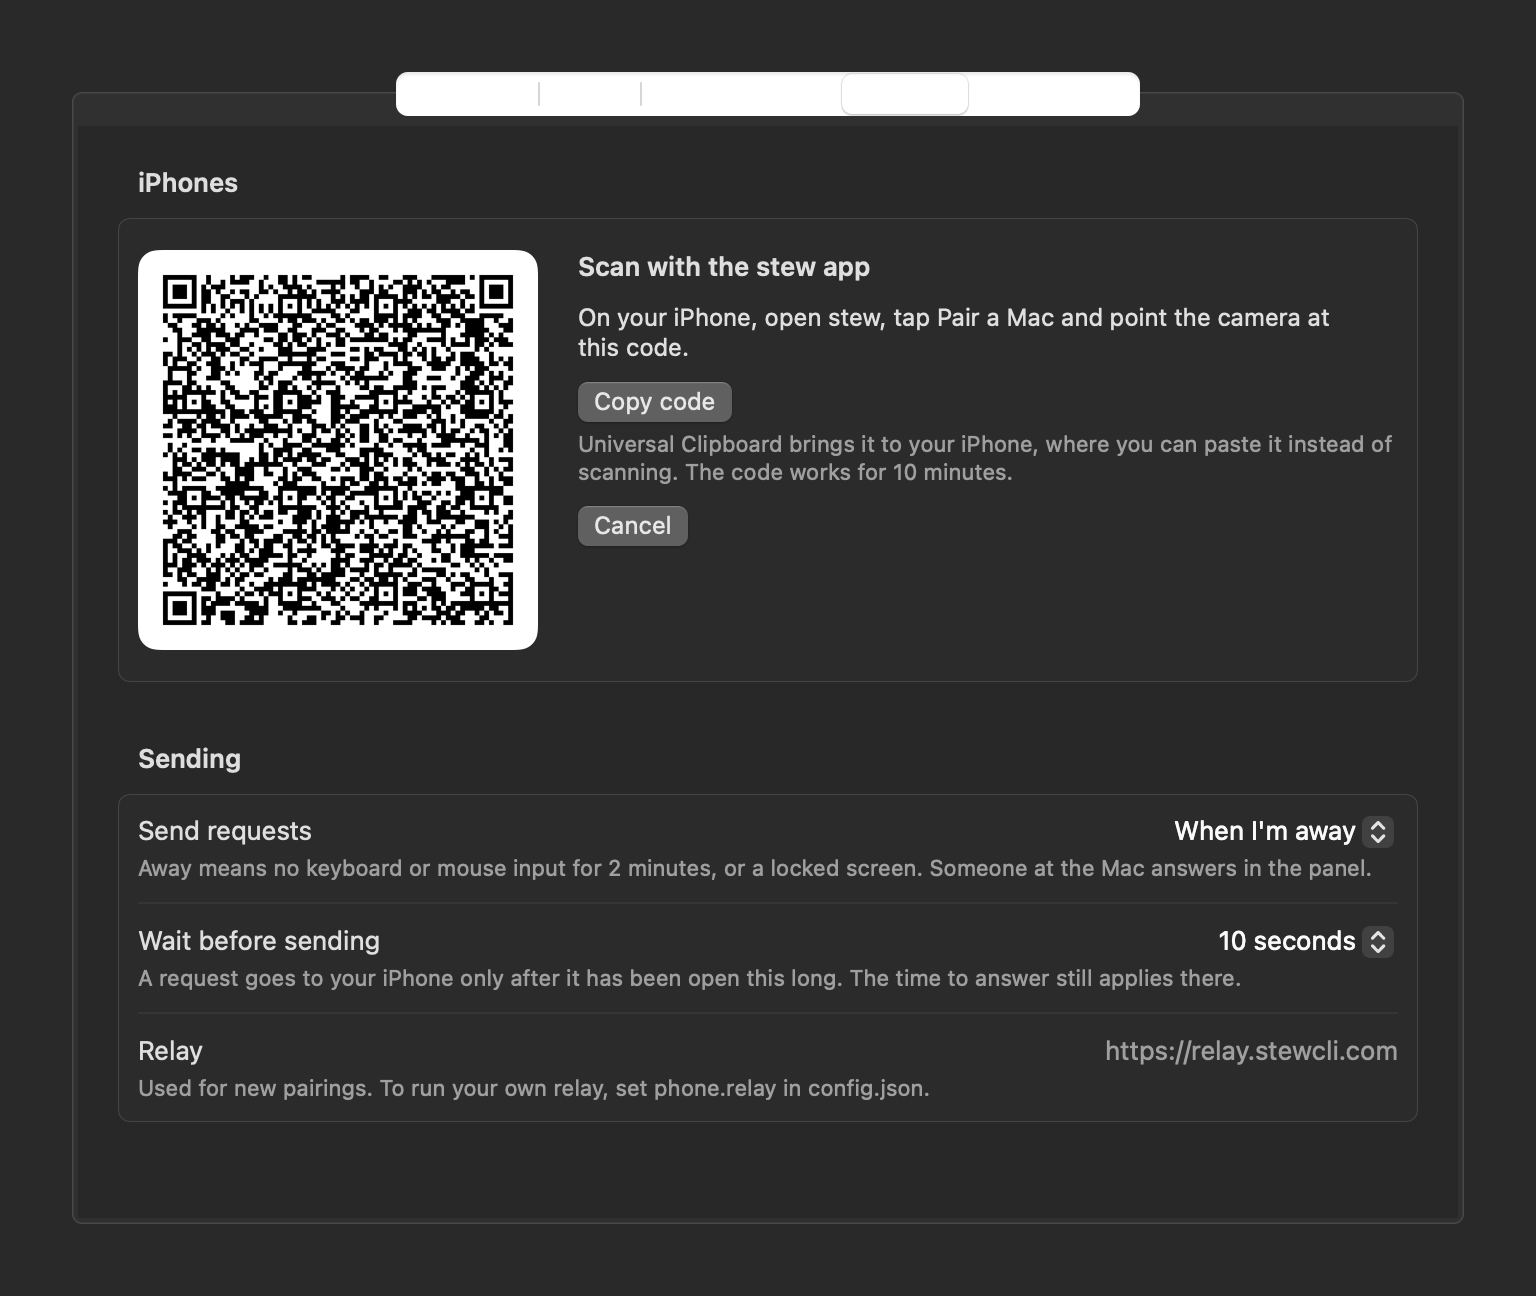
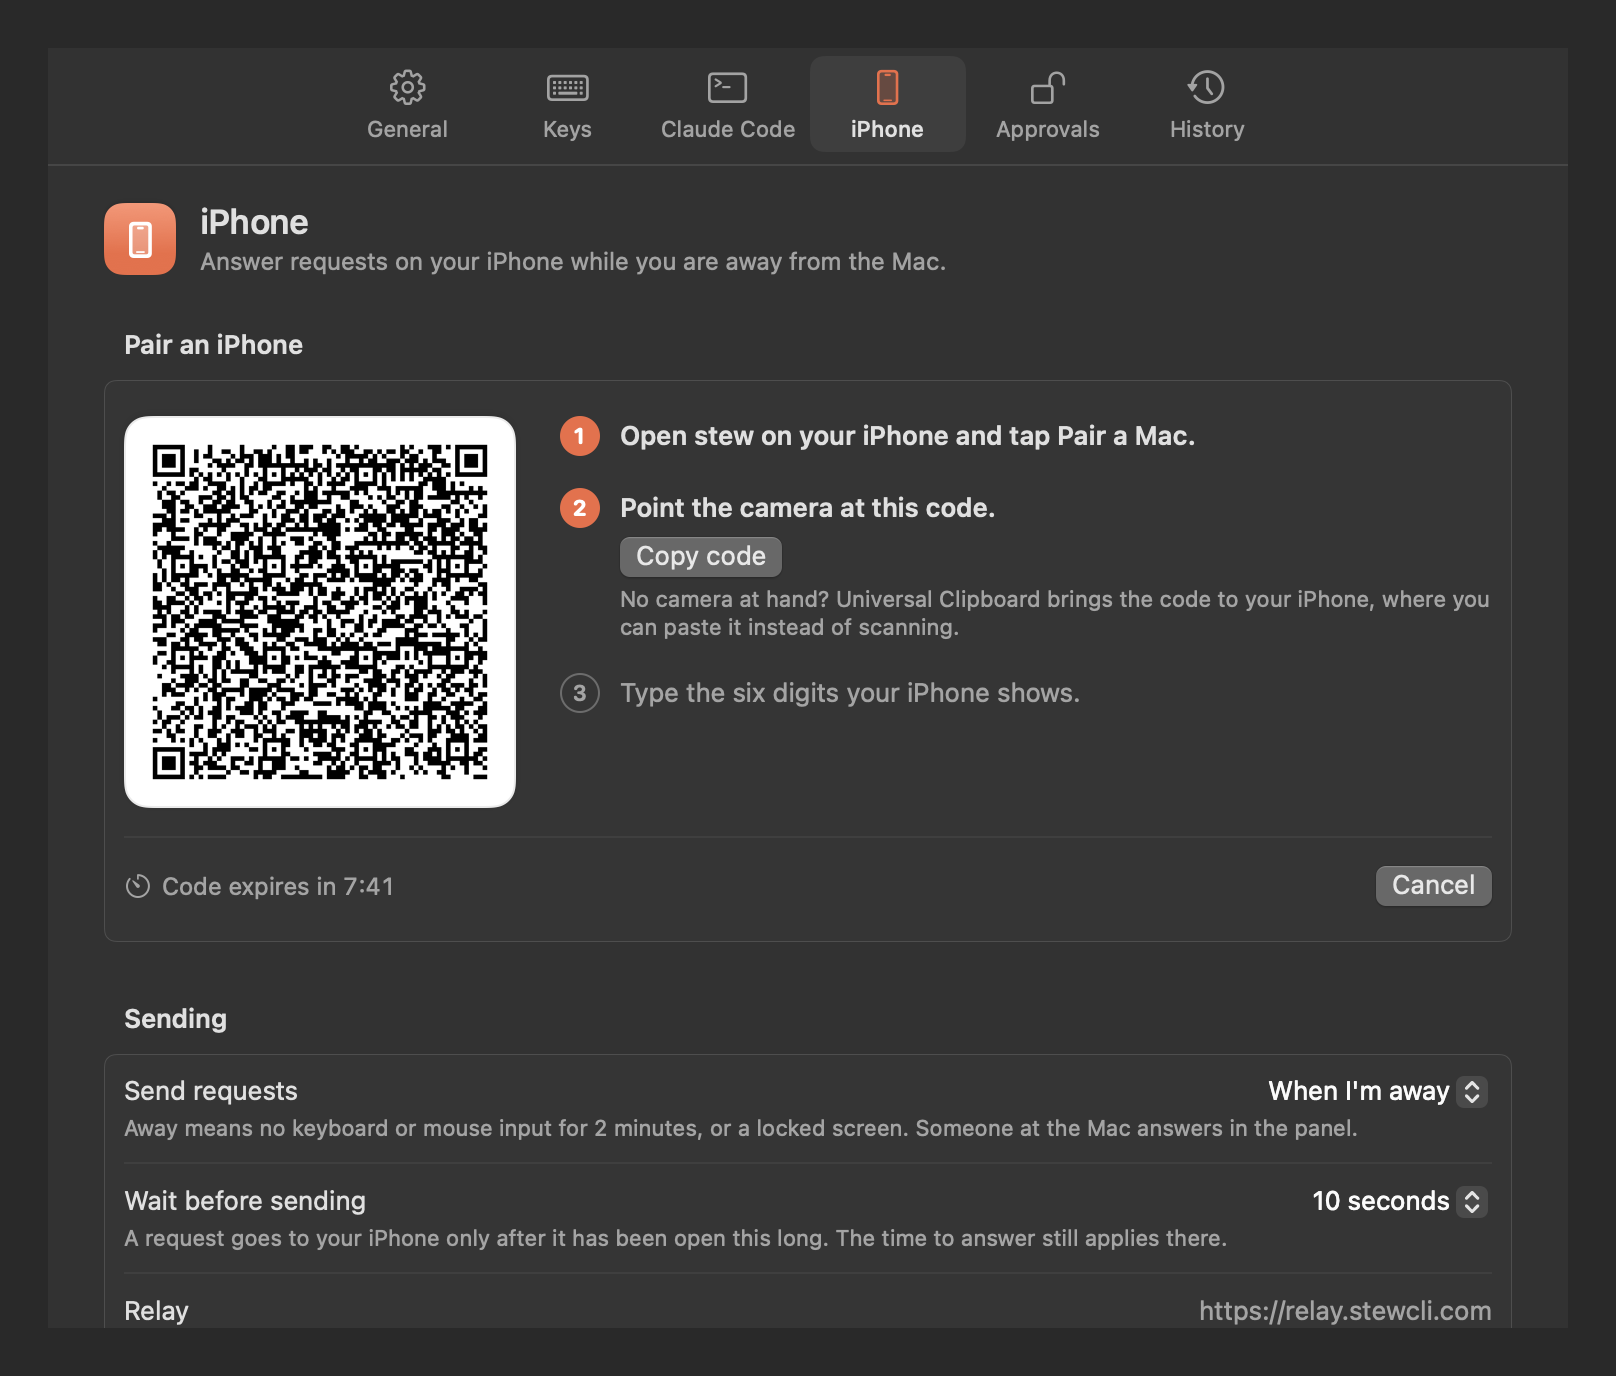
Show the new settings window and pairing screens in the docs

diff --git a/docs/PHONE.md b/docs/PHONE.md
@@ -17,11 +17,15 @@ When a request stays open while you are away from your Mac, stew sends it to you
 
 ## Pairing
 
-1. On the Mac: Settings ▸ iPhone ▸ Pair an iPhone. stew shows a QR code. The same code is a `stew://pair?code=…` link that you can copy and paste on the phone instead. The code works for 10 minutes and for one phone; a copied code leaves the clipboard after a minute.
+1. On the Mac: Settings ▸ iPhone ▸ Pair an iPhone. stew shows a QR code. The same code is a `stew://pair?code=…` link that you can copy and paste on the phone instead. The code works for 10 minutes and for one phone; Settings counts down the time it has left. A copied code leaves the clipboard after a minute.
 2. On the iPhone: in the stew app, tap Pair a Mac and scan the code, or paste it.
 3. The iPhone shows six digits. Type them on the Mac. The Mac never shows them, so they can only come from your phone. If the phone shows none (another device used the code first), reject on the Mac.
 
 ![Settings ▸ iPhone while a code waits to be scanned](images/settings-phone-pairing-light.png)
+
+![The iPhone shows six digits](images/iphone-app-pair-verify-light.png)
+
+![Settings ▸ iPhone asks for the six digits](images/settings-phone-confirm-light.png)
 
 A Mac can pair with several phones and a phone with several Macs. Each pairing has its own id, its own pairing secret and its own key. Unpairing on either side removes the pairing on both.
 

diff --git a/README.md b/README.md
@@ -252,11 +252,12 @@ Run `stew settings` for a settings window, or edit `~/.config/stew/config.json` 
 
 ![The settings window](docs/images/settings-general-light.png)
 
-The window has five tabs:
+The window has six panes, picked from its toolbar:
 
 - **General:** time to answer, more time, arming delay, position, sound, confetti, updates.
 - **Keys:** click a key and press the new combination.
 - **Claude Code:** install or remove the hooks, choose where questions and needs items from Claude Code appear, and set up the risk check.
+- **iPhone:** pair and unpair iPhones, and choose when requests go to them (see [docs/PHONE.md](docs/PHONE.md)).
 - **Approvals:** the same list as `stew approvals`.
 - **History:** finished requests, with a Missed only switch (see History).
 
